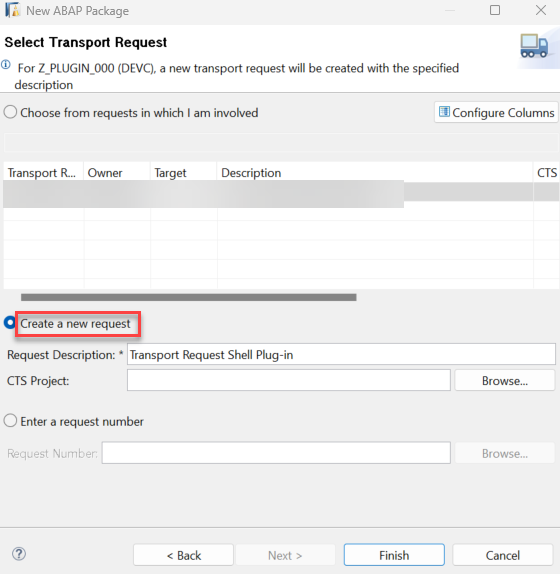
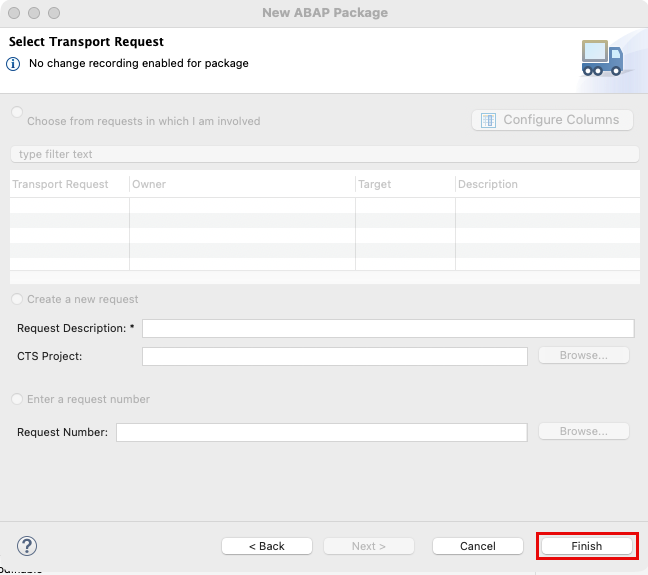
Changes after review 02/26 - no tr for local packages

diff --git a/tutorials/abap-environment-shell-plugin/abap-environment-shell-plugin.md b/tutorials/abap-environment-shell-plugin/abap-environment-shell-plugin.md
@@ -35,7 +35,7 @@ parser: v2
 
 ### Create a Package in ABAP Developer Tool in Eclipse
 
-The shell plug-in will be deployed to the local `ZLOCAL` software component in your SAP BTP ABAP Environment. For this reason, you need to create in ADT a local package and a transport request for the software component.
+The shell plug-in will be deployed to the local `ZLOCAL` software component in your SAP BTP ABAP Environment. For this reason, you need to create a local package in ADT.
 
 1. Access ABAP Developer Tool in Eclipse and connect to your SAP BTP ABAP Environment.
 
@@ -52,13 +52,9 @@ The shell plug-in will be deployed to the local `ZLOCAL` software component in y
 
     ![Create new package - select software component](create_new_package_3.png)
 
-5. Select the **Create a new request** option and input a description for your transport request. Click on **Finish**. The package will be created.
+5. Click on **Next**, then on **Finish**. The package will be created.
 
-    ![Create new transport request](create_transport_request.png)
-
-6. Open the **Transport Organizer** and select your SAP BTP ABAP Environment. Navigate to **Workbench** > **Local Change Requests** > **Modifiable**. Here you can see the transport request you just created. Take note of the transport request number, you will need it in a later step.
-
-    ![Transport organizer - transport request number](transport_organizer.png)
+    ![No tr creation, just finish](create_transport_request.png)
 
 ### Create a SAPUI5 Project in Business Application Studio
 
@@ -107,7 +103,7 @@ The shell plug-in will be deployed to your SAP BTP ABAP Environment as an SAP Fi
 
     >Ensure that **Use Virtual Endpoints for Local Preview** remains set to **No**.
 
-9. Deployment Configuration: In the **Please choose the target** dropdown menu, select **ABAP**. In the **Destinations** dropdown menu, select the destination that points towards your SAP BTP ABAP Environment. Input for example `z_plugin_###` as name for the **SAPUI5 ABAP Repository** and a  **Deployment description**. In the **Package** field, input the name of the package that you created in ABAP Development Tool in Eclipse in the previous step. Select **Enter manually** and Input the **Transport Request** number you created in the previous step. Click on **Next**.
+9. Deployment Configuration: In the **Please choose the target** dropdown menu, select **ABAP**. In the **Destinations** dropdown menu, select the destination that points towards your SAP BTP ABAP Environment. Input for example `z_plugin_###` as name for the **SAPUI5 ABAP Repository** and a  **Deployment description**. In the **Package** field, select **Enter manually** and input the name of the package that you created in ABAP Development Tool in Eclipse in the previous step. Click on **Next**.
 
     <!--border-->
     ![Create SAP Fiori application - Deployment configuration](create_SAPUI5_project_6.png)
@@ -319,7 +315,7 @@ You can now deploy your SAPUI5 Component on with a basic (empty) shell plug-in t
 `Deployment Successful`. You can now close the terminal window.
 >The deployment process can take up to a few minutes.
 
-3. After a successful deployment, your software package in ABAP Developer Tool in Eclipse will be automatically enhanced by a BSP Application, a Launchpad App Descriptor Item and two `SICF` Nodes.
+3. After a successful deployment, your software package in ABAP Developer Tool in Eclipse will be automatically enhanced by a BSP Application, a Launchpad App Descriptor Item and `SICF` Node.
 
     <!--border-->
     ![New ADT files](new_ADT_files.png)
@@ -342,7 +338,7 @@ Now that your basic shell plug-in has been successfully deployed to your SAP BTP
 
     ![Create business catalog 3](create_business_catalog_3.png)
 
-5. Click on next and select the transport request you created in a previous step. Click on **Finish**.
+5. Click on **Next**, then on **Finish**.
 
 6. In the newly created **IAM App**, enter the name of your **Launchpad App Descriptor Item** in the corresponding field (1) and save ( **File** > **Save**). Then click on **Publish Locally** (3).
 
@@ -363,17 +359,15 @@ Now that you have created the IAM App, you can create a Business Catalog and ass
 
     ![Create business catalog 5](create_business_catalog_5.png)
 
-3. Click next and select your transport request. Click on **Finish**.
+3. Click on **Next**, then click on **Finish**.
 
-4. A new window will automatically pop up prompting you to create the Business Catalog App Assignment. Click on **Next**.
+4. A new window will automatically pop up prompting you to create the Business Catalog App Assignment. Click on **Next**, then on **Finish**.
 
     ![Create business catalog 6](create_business_catalog_6.png)
 
-5. Select the transport request you used previously. Click on **Finish**.
+5. The generated IAM App, IAM App to Catalog Assignment and IAM Business Catalog will appear in your project folder.  
 
-6. The generated IAM App, IAM App to Catalog Assignment and IAM Business Catalog will appear in your project folder.  
-
-7. Double click on the IAM Business Catalog file to open it. Click on **Publish Locally**.
+6. Double click on the IAM Business Catalog file to open it. Click on **Publish Locally**.
 
     ![Create business catalog 8](create_business_catalog_8.png)
 >Publishing the Business Catalog can take up to a minute. You can keep track of the process in the lower right corner of the ABAP Developer Tool in Eclipse.
